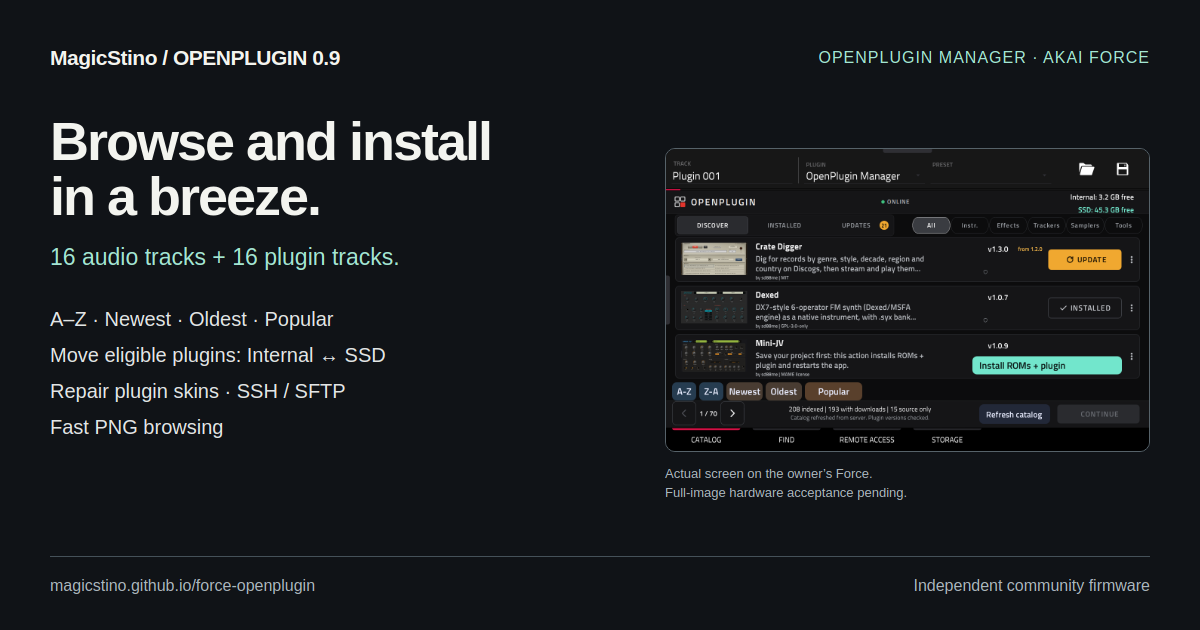
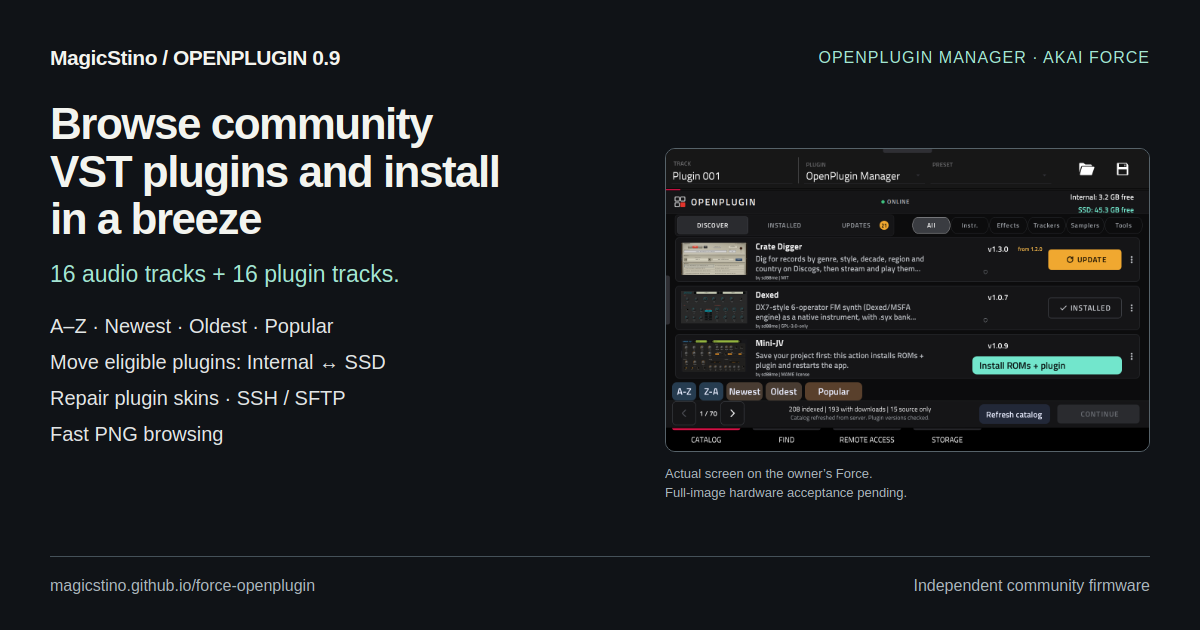
Browse community VST plugins and install in a breeze

Changed region(s): [[0.0308, 0.1508, 0.4317, 0.4524], [0.0308, 0.4825, 0.3392, 0.7238]]

diff --git a/website/index.html b/website/index.html
@@ -1,11 +1,11 @@
 <!doctype html>
-<html lang="en"><head><meta charset="utf-8"><meta name="viewport" content="width=device-width, initial-scale=1"><title>MagicStino OpenPlugin 0.9 — Browse and install in a breeze.</title>
+<html lang="en"><head><meta charset="utf-8"><meta name="viewport" content="width=device-width, initial-scale=1"><title>MagicStino OpenPlugin 0.9 — Browse community VST plugins and install in a breeze</title>
 <meta name="description" content="Browse and install community plugins directly on your Force. With 16 audio + 16 plugin tracks, easy sorting, Internal ↔ SSD moves and skin repair.">
 <link rel="canonical" href="https://magicstino.github.io/force-openplugin/">
-<meta property="og:type" content="website"><meta property="og:url" content="https://magicstino.github.io/force-openplugin/"><meta property="og:site_name" content="OpenPlugin Research"><meta property="og:title" content="MagicStino OpenPlugin 0.9 — Browse and install in a breeze."><meta property="og:description" content="Browse and install community plugins directly on your Force. With 16 audio + 16 plugin tracks, easy sorting, Internal ↔ SSD moves and skin repair."><meta property="og:image" content="https://magicstino.github.io/force-openplugin/assets/share-card-0.9.png"><meta property="og:image:type" content="image/png"><meta property="og:image:width" content="1200"><meta property="og:image:height" content="630"><meta property="og:image:alt" content="OpenPlugin: 16 audio + 16 plugin tracks, with a real Force Plugin Manager photo">
-<meta name="twitter:card" content="summary_large_image"><meta name="twitter:title" content="MagicStino OpenPlugin 0.9 — Browse and install in a breeze."><meta name="twitter:description" content="Browse and install community plugins directly on your Force. With 16 audio + 16 plugin tracks, easy sorting, Internal ↔ SSD moves and skin repair."><meta name="twitter:image" content="https://magicstino.github.io/force-openplugin/assets/share-card-0.9.png"><meta name="twitter:image:alt" content="OpenPlugin: double the tracks, 200+ plugins and a real Force Plugin Manager photo">
+<meta property="og:type" content="website"><meta property="og:url" content="https://magicstino.github.io/force-openplugin/"><meta property="og:site_name" content="OpenPlugin Research"><meta property="og:title" content="MagicStino OpenPlugin 0.9 — Browse community VST plugins and install in a breeze"><meta property="og:description" content="Browse and install community plugins directly on your Force. With 16 audio + 16 plugin tracks, easy sorting, Internal ↔ SSD moves and skin repair."><meta property="og:image" content="https://magicstino.github.io/force-openplugin/assets/share-card-0.9.png"><meta property="og:image:type" content="image/png"><meta property="og:image:width" content="1200"><meta property="og:image:height" content="630"><meta property="og:image:alt" content="OpenPlugin: 16 audio + 16 plugin tracks, with a real Force Plugin Manager photo">
+<meta name="twitter:card" content="summary_large_image"><meta name="twitter:title" content="MagicStino OpenPlugin 0.9 — Browse community VST plugins and install in a breeze"><meta name="twitter:description" content="Browse and install community plugins directly on your Force. With 16 audio + 16 plugin tracks, easy sorting, Internal ↔ SSD moves and skin repair."><meta name="twitter:image" content="https://magicstino.github.io/force-openplugin/assets/share-card-0.9.png"><meta name="twitter:image:alt" content="OpenPlugin: double the tracks, 200+ plugins and a real Force Plugin Manager photo">
 <meta name="theme-color" content="#17191c"><link rel="icon" href="assets/mark.svg" type="image/svg+xml"><link rel="stylesheet" href="style.css?v=manager-090"><script src="app.js?v=share-7" defer></script></head>
-<body><a class="skip" href="#main">Skip to content</a><header class="header"><a class="brand" href="#">openplugin <span class="brand-sub">RESEARCH</span></a><nav aria-label="Main navigation"><a href="#downloads">Start here</a><a href="#howtos">Use the app</a><a href="#remote-access">SSH &amp; SFTP</a><a href="#force-gallery">Photos</a><a href="#catalog">Plugins</a><a href="#sources">Publish a plugin</a><a href="#developers">Build</a><a href="#status">Test status</a></nav><a class="repo-link" href="https://github.com/MagicStino/force-openplugin">GitHub ↗</a></header><main id="main"><section class="hero wrap"><div class="hero-copy"><p class="eyebrow">MAGICSTINO OPENPLUGIN · MANAGER 0.9.0</p><h1>Browse and install<br>in a breeze.</h1><p class="lede">Discover and install community plugins directly on your Force touchscreen. Browse the catalog, choose a plugin, and let OpenPlugin Manager handle the installation.</p><p>16 audio + 16 plugin tracks. Easy sorting. Internal ↔ SSD moves. Skin repair.</p><div class="hero-actions"><a class="button primary" href="#guide">Explore the new manager</a><a class="button" href="#downloads">Build &amp; download status</a></div><p class="small">0.9.0 Force image candidate · Full-image hardware acceptance pending.</p></div><figure class="hero-art"><img src="assets/manager-0.9/catalog.png" alt="OpenPlugin Manager running on the owner's Force" width="1280" height="800"><figcaption>Actual Force screen · 208 indexed entries at capture time</figcaption></figure></section>
+<body><a class="skip" href="#main">Skip to content</a><header class="header"><a class="brand" href="#">openplugin <span class="brand-sub">RESEARCH</span></a><nav aria-label="Main navigation"><a href="#downloads">Start here</a><a href="#howtos">Use the app</a><a href="#remote-access">SSH &amp; SFTP</a><a href="#force-gallery">Photos</a><a href="#catalog">Plugins</a><a href="#sources">Publish a plugin</a><a href="#developers">Build</a><a href="#status">Test status</a></nav><a class="repo-link" href="https://github.com/MagicStino/force-openplugin">GitHub ↗</a></header><main id="main"><section class="hero wrap"><div class="hero-copy"><p class="eyebrow">MAGICSTINO OPENPLUGIN · MANAGER 0.9.0</p><h1>Browse community VST plugins<br>and install in a breeze</h1><p class="lede">Discover and install community plugins directly on your Force touchscreen. Browse the catalog, choose a plugin, and let OpenPlugin Manager handle the installation.</p><p>16 audio + 16 plugin tracks. Easy sorting. Internal ↔ SSD moves. Skin repair.</p><div class="hero-actions"><a class="button primary" href="#guide">Explore the new manager</a><a class="button" href="#downloads">Build &amp; download status</a></div><p class="small">0.9.0 Force image candidate · Full-image hardware acceptance pending.</p></div><figure class="hero-art"><img src="assets/manager-0.9/catalog.png" alt="OpenPlugin Manager running on the owner's Force" width="1280" height="800"><figcaption>Actual Force screen · 208 indexed entries at capture time</figcaption></figure></section>
 <section class="wrap usp-section" aria-label="OpenPlugin features"><div class="usp-grid"><article class="usp-highlight"><span class="usp-number">01 / TRACKS16</span><h2>16 audio + 16 plugin tracks</h2><p>More room to build your arrangement. The Force image retains Tracks16 alongside the new manager and storage features.</p><p><a href="https://github.com/MagicStino/force-openplugin/blob/main/docs/TRACKS16.md">Track limits and testing details ↗</a></p></article><article><span class="usp-number">02 / FIND</span><h2>Your catalog. Your order.</h2><p>A–Z, Z–A, Newest, Oldest and Popular. Jump to a letter group and refine in one row.</p></article><article><span class="usp-number">03 / STORAGE</span><h2>Internal ↔ SSD</h2><p>Move eligible manager-owned plugins, verify the copy and free source space. Return to Internal when needed.</p></article><article><span class="usp-number">04 / CONFIDENCE</span><h2>See what happens.</h2><p>Progress, drive space, missing-drive guidance and a Repair plugin skins button.</p></article></div></section><div class="status-strip"><div class="wrap status-inner"><span class="chip">OPENPLUGIN 0.9 · TRACKS16</span><p><strong>Tracks16 update.</strong> Based on original firmware 3.10.0, with 16 audio tracks, 16 plugin tracks, Plugin Manager and SSH/SFTP. Install the update via USB; plugins install separately from the manager.</p><a href="#status">Details →</a></div></div><section class="wrap section getting-started" id="downloads"><p class="eyebrow">FORCE RELEASE CANDIDATE</p><h2>OpenPlugin 0.9.0</h2><p>The new Force image includes Manager 0.9.0, managed-drive startup support, SSH/SFTP and the existing Tracks16 feature: 16 audio + 16 plugin tracks. It is based on firmware 3.10.0.</p><p><strong>Full-image flash and boot acceptance is pending.</strong> Manager features were tested separately on the owner's Force. The previous published Force and MPC Gen1 images remain available while the new Force candidate is validated.</p><p><a class="button" href="https://github.com/MagicStino/force-openplugin/blob/main/docs/DOWNLOADS.md">Downloads and validation status</a> <a class="button" href="https://github.com/MagicStino/force-openplugin/releases/tag/v0.8.3-tracks16.20261105">Previous published images</a></p><p>Use only the image for your device family, verify its checksum and save projects before updating through the normal USB firmware updater. No new MPC Gen1 image is included in this Force release.</p></section><section class="wrap section hardware-gallery" id="force-gallery"><div class="section-heading"><p class="eyebrow">ON A REAL FORCE</p><h2>See the manager in use</h2><p>Owner-supplied photos of the Force touchscreen. Browse the catalog, install from a card, then open the plugin. Tap a photo to enlarge it. These photos show individual results, not a guarantee that every plugin or MPC model works.</p></div><div class="hardware-photo-grid"><figure class="hardware-photo photo-featured"><button class="photo-open" type="button" data-photo="assets/force-photos/catalog.jpg" data-title="Browse the community catalog" data-caption="Plugin cards, categories, installed status and the Refresh catalog action." data-ratio="1.891994917407878" data-rotate="false" aria-label="Enlarge photo: Browse the community catalog"><span class="photo-frame" style="--photo-ratio:1.891994917407878"><img src="assets/force-photos/catalog.jpg" width="1489" height="787" loading="lazy" alt="Browse the community catalog on a physical Akai Force"></span><span class="photo-enlarge" aria-hidden="true">Enlarge ↗</span></button><figcaption><h3>Browse the community catalog</h3><p>Plugin cards, categories, installed status and the Refresh catalog action.</p></figcaption></figure><figure class="hardware-photo photo-featured"><button class="photo-open" type="button" data-photo="assets/force-photos/jv-setup.jpg" data-title="Install JV-880 ROMs + plugin" data-caption="The combined installation action on the JV-880 card." data-ratio="1.891994917407878" data-rotate="false" aria-label="Enlarge photo: Install JV-880 ROMs + plugin"><span class="photo-frame" style="--photo-ratio:1.891994917407878"><img src="assets/force-photos/jv-setup.jpg" width="1489" height="787" loading="lazy" alt="Install JV-880 ROMs + plugin on a physical Akai Force"></span><span class="photo-enlarge" aria-hidden="true">Enlarge ↗</span></button><figcaption><h3>Install JV-880 ROMs + plugin</h3><p>The combined installation action on the JV-880 card.</p></figcaption></figure><figure class="hardware-photo"><button class="photo-open" type="button" data-photo="assets/force-photos/plugin-selection.jpg" data-title="Open Plugin Manager" data-caption="Select Plugin Manager from PLUGINS → VST on a plugin track." data-ratio="1.9362808842652797" data-rotate="false" aria-label="Enlarge photo: Open Plugin Manager"><span class="photo-frame" style="--photo-ratio:1.9362808842652797"><img src="assets/force-photos/plugin-selection.jpg" width="1489" height="769" loading="lazy" alt="Open Plugin Manager on a physical Akai Force"></span><span class="photo-enlarge" aria-hidden="true">Enlarge ↗</span></button><figcaption><h3>Open Plugin Manager</h3><p>Select Plugin Manager from PLUGINS → VST on a plugin track.</p></figcaption></figure><figure class="hardware-photo"><button class="photo-open" type="button" data-photo="assets/force-photos/jv-controls.jpg" data-title="JV-880 controls" data-caption="The supplied Force photo shows the JV-880 control interface." data-ratio="0.7183002056202878" data-rotate="true" aria-label="Enlarge photo: JV-880 controls"><span class="photo-frame photo-rotated" style="--photo-ratio:0.7183002056202878"><img src="assets/force-photos/jv-controls.jpg" width="1459" height="1048" loading="lazy" alt="JV-880 controls on a physical Akai Force"></span><span class="photo-enlarge" aria-hidden="true">Enlarge ↗</span></button><figcaption><h3>JV-880 controls</h3><p>The supplied Force photo shows the JV-880 control interface.</p></figcaption></figure><figure class="hardware-photo"><button class="photo-open" type="button" data-photo="assets/force-photos/dexed.jpg" data-title="Dexed controls" data-caption="Dexed’s synth controls open on the Force touchscreen." data-ratio="0.7183002056202878" data-rotate="true" aria-label="Enlarge photo: Dexed controls"><span class="photo-frame photo-rotated" style="--photo-ratio:0.7183002056202878"><img src="assets/force-photos/dexed.jpg" width="1459" height="1048" loading="lazy" alt="Dexed controls on a physical Akai Force"></span><span class="photo-enlarge" aria-hidden="true">Enlarge ↗</span></button><figcaption><h3>Dexed controls</h3><p>Dexed’s synth controls open on the Force touchscreen.</p></figcaption></figure><figure class="hardware-photo"><button class="photo-open" type="button" data-photo="assets/force-photos/galactic.jpg" data-title="Galactic effect" data-caption="The Galactic effect interface running on the Force." data-ratio="1.5316184351554127" data-rotate="false" aria-label="Enlarge photo: Galactic effect"><span class="photo-frame" style="--photo-ratio:1.5316184351554127"><img src="assets/force-photos/galactic.jpg" width="1429" height="933" loading="lazy" alt="Galactic effect on a physical Akai Force"></span><span class="photo-enlarge" aria-hidden="true">Enlarge ↗</span></button><figcaption><h3>Galactic effect</h3><p>The Galactic effect interface running on the Force.</p></figcaption></figure><figure class="hardware-photo"><button class="photo-open" type="button" data-photo="assets/force-photos/effect-selection.jpg" data-title="Choose an effect" data-caption="Effect selection on a Force track." data-ratio="0.6850944716585025" data-rotate="true" aria-label="Enlarge photo: Choose an effect"><span class="photo-frame photo-rotated" style="--photo-ratio:0.6850944716585025"><img src="assets/force-photos/effect-selection.jpg" width="1429" height="979" loading="lazy" alt="Choose an effect on a physical Akai Force"></span><span class="photo-enlarge" aria-hidden="true">Enlarge ↗</span></button><figcaption><h3>Choose an effect</h3><p>Effect selection on a Force track.</p></figcaption></figure></div></section><details class="wrap accordion mpc-render"><summary>MPC Gen1 · rendered preview</summary><div><p>This is a styled render, not a hardware photo. Physical MPC operation still needs testing.</p><img src="assets/mpc-preview.png" width="1200" height="840" loading="lazy" alt="Rendered MPC Gen1 concept with the native manager interface"></div></details><section class="wrap section" id="howtos"><div id="guide"><p class="eyebrow">OPENPLUGIN MANAGER 0.9.0</p><h2>From finding a plugin to making space</h2><p>Open PLUGINS → VST → OpenPlugin Manager. Its leading space keeps it near the top of the chooser.</p><div class="release-guide"><article><h3>Find it faster</h3><img src="assets/manager-0.9/find.png" alt="FIND screen on Force" loading="lazy"><p>Filter by category or search names, authors and tags. Newest/Oldest use update dates, with compatible release dates as a fallback. Popular uses upstream download totals.</p></article><article><h3>Install with a clear next step</h3><img src="assets/manager-0.9/install.png" alt="Queued installation on Force" loading="lazy"><p>Select Install or Update, press Continue, then follow the confirmation. Save your project before the final install/restart action.</p></article><article><h3>Move to SSD—and back</h3><img src="assets/manager-0.9/storage.png" alt="Storage drive rows with Internal and SSD on Force" loading="lazy"><p>Open Storage, choose Move here on a viable drive and review before confirming. Verified moves free eligible source copies. New compatible manager installs follow the chosen location. Only manager-owned, movable packages are included.</p><p>Drive checks run when Storage opens. Progress explains longer checks and copies. If a drive disappears, reconnect it before moving its plugins elsewhere.</p></article><article><h3>Repair skins and stay connected</h3><img src="assets/manager-0.9/remote.png" alt="SSH and SFTP controls on Force" loading="lazy"><p>Storage includes Repair plugin skins. Successful manager installs also maintain skin registrations. Missing files require reinstalling the affected plugin. Remote Access shows the IP, port and login hint, and remembers enable/disable.</p></article></div><p><a href="https://github.com/MagicStino/force-openplugin/blob/main/docs/GUIDE.md">Read the full GitHub manual ↗</a> · <a href="https://github.com/MagicStino/force-openplugin/blob/main/docs/RELEASE-0.9.0.md">0.9.0 release notes ↗</a></p><p>Normal PNG artwork replaces thousands of image parameters. Owner testing showed much faster loading. Missing artwork uses a gradient; catalog refresh does not download new artwork into the skin.</p></div></section><section class="wrap section" id="catalog"><div class="section-heading"><p class="eyebrow">COMMUNITY INDEX</p><h2>Browse indexed entries</h2><p>Indexed from MPC VST Plugins and reviewed community metadata. Samplers overlap instruments; categories can be empty.</p></div><div class="catalog-filters" role="group" aria-label="Catalog category"><button class="selected" aria-pressed="true" data-kind="all">All</button><button aria-pressed="false" data-kind="instrument">Instruments</button><button aria-pressed="false" data-kind="effect">Effects</button><button aria-pressed="false" data-kind="tracker">Trackers</button><button aria-pressed="false" data-kind="sampler">Samplers</button><button aria-pressed="false" data-kind="addin">Tools / addins</button></div><label class="faq-search" for="catalog-query">Optional filter<input id="catalog-query" type="search" placeholder="Name, author or tag"></label><div class="examples">FIND examples: <button data-example="acid">acid · instrument/tag</button><button data-example="reverb">reverb · effect/tag</button><button data-example="Airwindows">Airwindows · plugin family</button><button data-example="Lucky Dip">Lucky Dip · sampler name</button></div><p id="catalog-count" role="status">Loading catalog…</p><div id="catalog-cards" class="catalog-grid"></div><button id="catalog-more" class="button dark" hidden>Show more entries ↓</button><noscript><p>Browse the <a href="https://open-mpc.github.io/">upstream community catalog</a>. The guides below work without JavaScript.</p></noscript><p class="small">Cards refresh with the scheduled catalog. Website actions open the author’s project or releases; they do not install on your device.</p></section><section class="sources-section section" id="sources"><div class="wrap"><div class="section-heading"><p class="eyebrow">PUBLISH A PLUGIN</p><h2>Make your project discoverable</h2><p>Plugin authors can submit a public project URL, or propose a change to the source list. A root <code>openplugin.json</code> describes the plugin; it is different from the package’s <code>mpc-plugin.json</code>. Submissions are reviewed, not added automatically from an issue.</p></div><div class="source-types"><article><h3>1. Describe it</h3><p>Set title, author, category, tags and image URLs. Source-only projects can be listed.</p><a href="https://github.com/MagicStino/force-openplugin/blob/main/catalog/example.openplugin.json">Manifest example ↗</a></article><article><h3>2. Validate it</h3><p>Check the manifest against the community format. Native packages also need the existing portable ARMv7 package contract.</p><a href="schema/community-plugin.schema.json">JSON schema ↗</a> · <a href="https://github.com/MagicStino/force-openplugin/blob/main/docs/SOURCES.md">Package format ↗</a></article><article><h3>3. Submit it</h3><p>Submit the project URL using the form (GitHub account required). A maintainer adds it to the source list; the six-hour bridge then updates the JSON and cards. Package downloads need a separate review.</p><a href="https://github.com/MagicStino/force-openplugin/issues/new?template=plugin-submission.yml">Submit a project ↗</a></article></div><p><a class="button" href="https://github.com/MagicStino/force-openplugin/blob/main/docs/DISCOVERY.md">Discovery guide for users and authors ↗</a></p><details class="accordion"><summary>Data sources and formats</summary><div><p>The bridge starts with <a href="https://open-mpc.github.io/catalog.json">MPC VST Plugins</a>, then checks registered repositories and bounded GitHub searches. Search matches without a valid manifest remain candidates.</p><p><a href="catalog.json">App catalog</a> · <a href="discovery.json">Discovery report</a> · <a href="https://github.com/MagicStino/force-openplugin/blob/main/catalog/sources.json">Source registry</a></p><p>Device FIND accepts <code>owner/repository</code> or its GitHub URL. It checks the latest stable release for <code>-mpc-armv7.zip</code>, a SHA256 digest and <code>mpc-plugin.json</code>. Arbitrary websites and desktop VSTs are not supported inputs.</p></div></details><details class="accordion" id="formats"><summary>File extension reference</summary><div><p><code>.zip</code> package · <code>.so</code> native library · <code>.json</code> metadata · <code>.xml</code> registration · <code>.xpl</code> preset · <code>.xpj</code> project · <code>.sh</code> installer · <code>.img</code> firmware · <code>.sha256</code> checksum · <code>.pub</code> public SSH key.</p><p>Desktop <code>.dll</code>, <code>.exe</code>, <code>.dmg</code> and general <code>.vst3</code> bundles are not native MPC packages.</p></div></details></div></section><section class="wrap section" id="remote-access"><div class="section-heading"><p class="eyebrow">REMOTE ACCESS · OPENPLUGIN 0.9.0</p><h2>Transfer samples with SFTP</h2><p><strong>Verified on the owner’s Force · 10 October 2026:</strong> SSH login, SFTP upload and download, matching file contents, and removal of the temporary test file.</p><p>Open <strong>Plugin Manager → REMOTE ACCESS</strong>. SSH starts automatically with the shared password mpc. Read the IP, use password <code>mpc</code>, and connect with username <code>root</code>, port <code>22</code>. Choose SFTP in your file-transfer app and browse <code>/media</code> for internal, SD and USB sample folders.</p><p><strong>Disable SSH</strong> saves your choice across reboots. This is full root access: use a trusted network. SSH login and SFTP are verified on one Force. Physical MPC Gen1 operation, disable/re-enable and reboot persistence still need testing.</p><p><a href="https://github.com/MagicStino/force-openplugin/blob/main/docs/SSH.md">Remote Access instructions ↗</a></p></div></section><section class="workbench section" id="developers"><div class="wrap"><div class="section-heading"><p class="eyebrow">BUILD &amp; CONTRIBUTE</p><h2>Build both images</h2><p>Supply your original Force and MPC Gen1 firmware. The repository contains our additions and adapter, not Akai’s application source.</p></div><div class="code-box"><button class="copy" data-copy="build-command">Copy</button><pre id="build-command"><code>git clone https://github.com/MagicStino/force-openplugin.git
 cd force-openplugin
 bash build.sh /path/Force-3.10.0-update.img \

diff --git a/tools/render_share.py b/tools/render_share.py
@@ -17,12 +17,12 @@ def share(assets):
 *{{box-sizing:border-box}}body{{margin:0;background:#101317;color:#f3f4ef;font-family:Arial,sans-serif}}
 .canvas{{width:1200px;height:630px;position:relative;overflow:hidden;padding:46px 50px}}
 .brand{{font-size:21px;font-weight:700;letter-spacing:-.5px}}.compat{{position:absolute;right:50px;top:49px;font-size:16px;letter-spacing:1px;color:#a4e5d3}}
-h1{{font-size:54px;line-height:1.02;letter-spacing:-2px;margin:44px 0 20px}}.copy{{width:540px}}
-.lead{{font-size:23px;color:#a4e5d3;margin:0 0 30px}}.features{{font-size:20px;line-height:1.8;color:#e2e5e5}}
+h1{{font-size:44px;line-height:1.08;letter-spacing:-1.5px;margin:30px 0 18px}}.copy{{width:540px}}
+.lead{{font-size:23px;color:#a4e5d3;margin:0 0 20px}}.features{{font-size:20px;line-height:1.8;color:#e2e5e5}}
 .photo{{position:absolute;right:50px;top:148px;width:485px;margin:0}}.photo img{{display:block;width:100%;border:1px solid #566269;border-radius:10px}}figcaption{{font-size:13px;line-height:1.5;color:#abb6bd;margin-top:12px}}
 footer{{position:absolute;left:50px;right:50px;bottom:35px;border-top:1px solid #455159;padding-top:20px;display:flex;justify-content:space-between;font-size:16px;color:#abb6bd}}
 </style><div class="canvas"><div class="brand">MagicStino / OPENPLUGIN 0.9</div><div class="compat">OPENPLUGIN MANAGER · AKAI FORCE</div>
-<div class="copy"><h1>Browse and install<br>in a breeze.</h1><p class="lead">16 audio tracks + 16 plugin tracks.</p>
+<div class="copy"><h1>Browse community<br>VST plugins and install<br>in a breeze</h1><p class="lead">16 audio tracks + 16 plugin tracks.</p>
 <div class="features">A–Z · Newest · Oldest · Popular<br>Move eligible plugins: Internal ↔ SSD<br>Repair plugin skins · SSH / SFTP<br>Fast PNG browsing</div></div>
 <figure class="photo"><img src="{photo}" alt="OpenPlugin running on a real Force"><figcaption>Actual screen on the owner’s Force.<br>Full-image hardware acceptance pending.</figcaption></figure>
 <footer><span>magicstino.github.io/force-openplugin</span><span>Independent community firmware</span></footer></div></html>'''

diff --git a/docs/MARKETING-0.9.0.md b/docs/MARKETING-0.9.0.md
@@ -1,6 +1,6 @@
 # MagicStino OpenPlugin 0.9.0 — preview announcement
 
-**Browse and install in a breeze.**
+**Browse community VST plugins and install in a breeze**
 
 Discover and install community plugins directly on your Akai Force touchscreen with OpenPlugin Manager 0.9.0. Browse the catalog, choose a plugin, and let the manager handle the installation.
 
